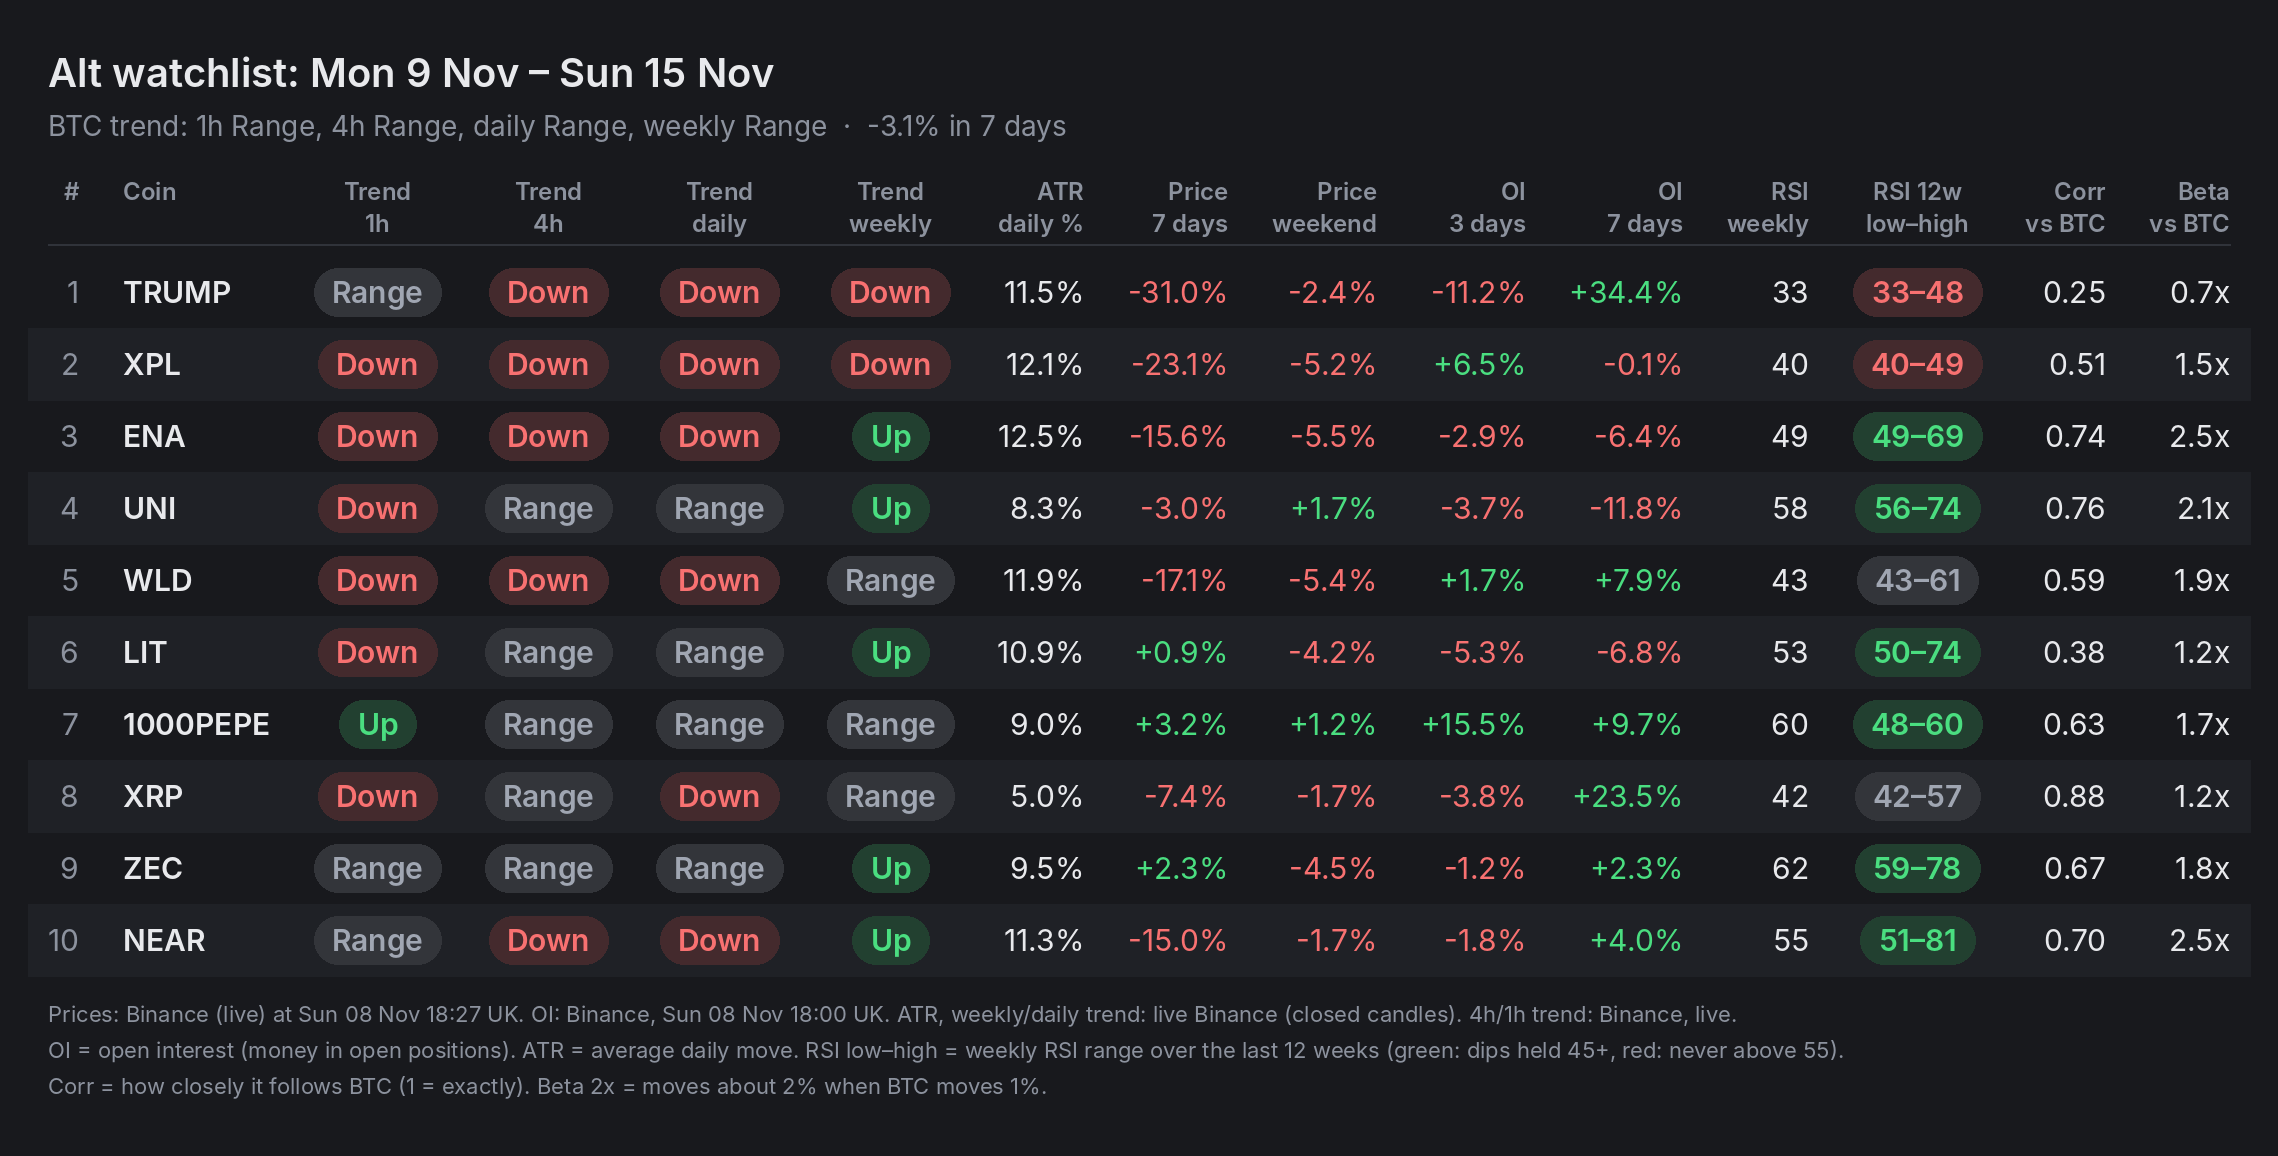
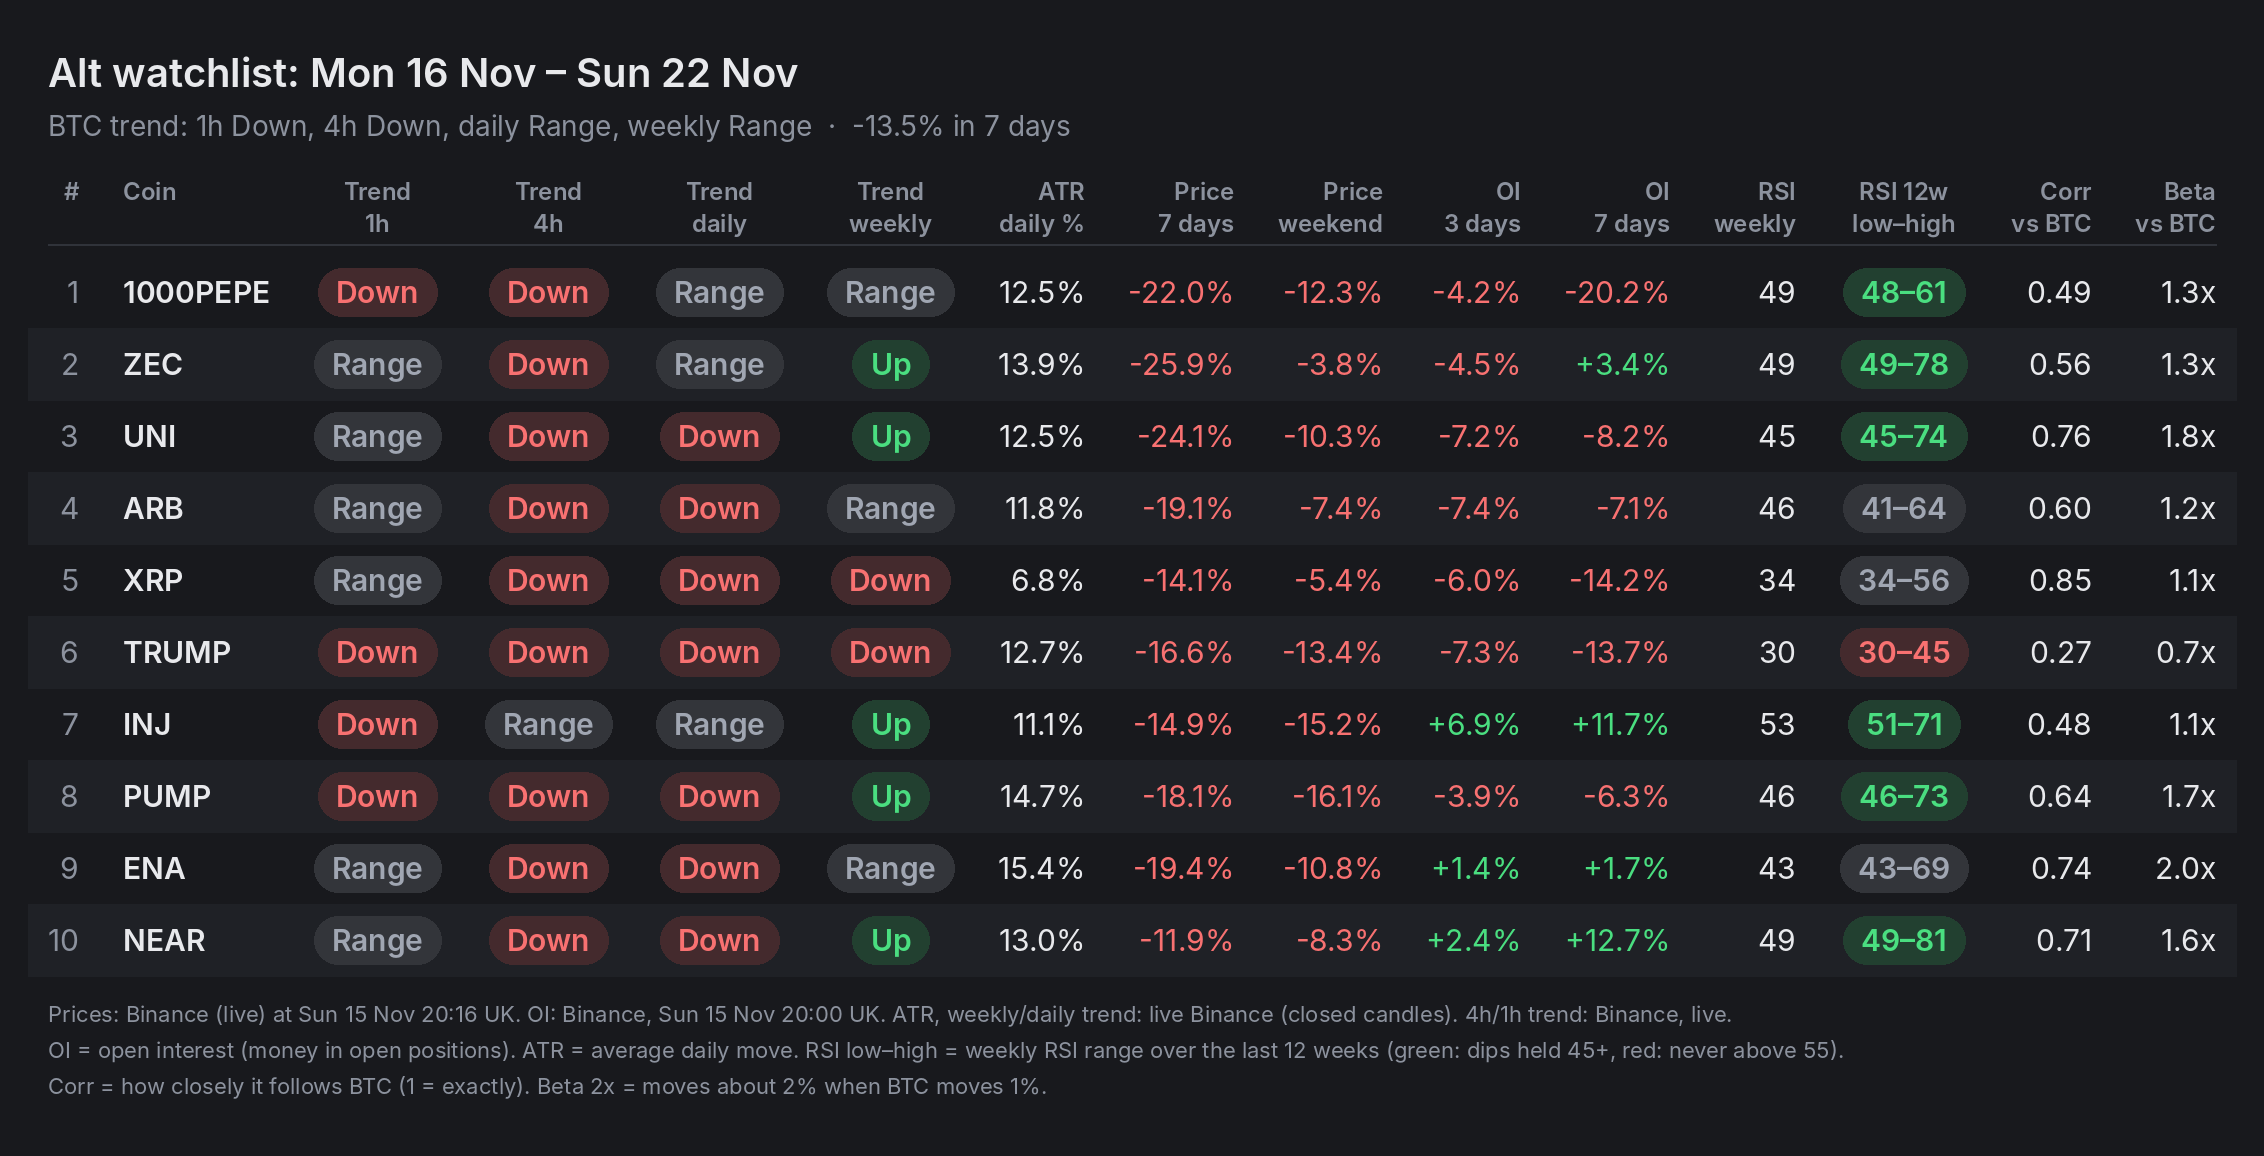
Weekly watchlist 2026-11-15

diff --git a/latest/report.md b/latest/report.md
@@ -1,40 +1,51 @@
-# Alt watchlist: Mon 9 Nov – Sun 15 Nov
+# Alt watchlist: Mon 16 Nov – Sun 22 Nov
 
-- **Generated (UK time):** Sun 08 Nov 2026 18:27
-- **Daily candles up to (UTC):** 2026-11-07
+- **Generated (UK time):** Sun 15 Nov 2026 20:16
+- **Daily candles up to (UTC):** 2026-11-14
 - **Binance perps also on Hyperliquid (after exclusions):** 169
-- **Passed all filters:** 16
+- **Passed all filters:** 27
 
-## All 16 coins that passed the filters (top 10 go on the watchlist)
+## All 27 coins that passed the filters (top 10 go on the watchlist)
 
 | Rank | Coin | Score | Trend | ATR% | Vol 7d/30d | 7d move | Weekend move | OI 3d | OI 7d | Corr BTC | Beta BTC | Binance OI | Binance 7d avg vol | HL 24h vol | HL OI | wRSI | wRSI 12w low–high | Funding /8h | Tags | Candles |
 |---|---|---|---|---|---|---|---|---|---|---|---|---|---|---|---|---|---|---|---|---|
-| **1** | TRUMP | 83 | 1h: Range · 4h: Down · D: Down · W: Down | 11.5% | 1.87 | -31.0% | -2.4% | -11.2% | +34.4% | 0.25 | 0.70 | $34.6M | $162.1M | $3.2M | $9.7M | 33 | 33–48 | -0.0139% (Binance) |  | Binance live |
-| **2** | XPL | 64 | 1h: Down · 4h: Down · D: Down · W: Down | 12.1% | 1.34 | -23.1% | -5.2% | +6.5% | -0.1% | 0.51 | 1.46 | $29.7M | $52.8M | $8.0M | $40.7M | 40 | 40–49 | +0.0096% (Binance) |  | Binance live |
-| **3** | ENA | 64 | 1h: Down · 4h: Down · D: Down · W: Up | 12.5% | 0.82 | -15.6% | -5.5% | -2.9% | -6.4% | 0.74 | 2.48 | $77.7M | $213.3M | $8.5M | $62.0M | 49 | 49–69 | +0.0100% (Binance) |  | Binance live |
-| **4** | UNI | 57 | 1h: Down · 4h: Range · D: Range · W: Up | 8.3% | 1.08 | -3.0% | +1.7% | -3.7% | -11.8% | 0.76 | 2.05 | $140.4M | $218.4M | $7.8M | $71.6M | 58 | 56–74 | +0.0074% (Binance) |  | Binance live |
-| **5** | WLD | 54 | 1h: Down · 4h: Down · D: Down · W: Range | 11.9% | 0.61 | -17.1% | -5.4% | +1.7% | +7.9% | 0.59 | 1.91 | $60.7M | $143.1M | $6.4M | $39.8M | 43 | 43–61 | -0.0088% (Binance) |  | Binance live |
-| **6** | LIT | 53 | 1h: Down · 4h: Range · D: Range · W: Up | 10.9% | 1.29 | +0.9% | -4.2% | -5.3% | -6.8% | 0.38 | 1.24 | $40.7M | $90.2M | $13.5M | $114.9M | 53 | 50–74 | +0.0100% (Binance) |  | Binance live |
-| **7** | 1000PEPE | 53 | 1h: Up · 4h: Range · D: Range · W: Range | 9.0% | 0.99 | +3.2% | +1.2% | +15.5% | +9.7% | 0.63 | 1.66 | $122.3M | $335.6M | $8.6M | $55.2M | 60 | 48–60 | +0.0100% (Binance) |  | Binance live |
-| **8** | XRP | 52 | 1h: Down · 4h: Range · D: Down · W: Range | 5.0% | 1.06 | -7.4% | -1.7% | -3.8% | +23.5% | 0.88 | 1.22 | $388.9M | $658.5M | $27.7M | $195.3M | 42 | 42–57 | +0.0100% (Binance) |  | Binance live |
-| **9** | ZEC | 51 | 1h: Range · 4h: Range · D: Range · W: Up | 9.5% | 1.17 | +2.3% | -4.5% | -1.2% | +2.3% | 0.67 | 1.80 | $542.8M | $2.0B | $192.8M | $613.1M | 62 | 59–78 | +0.0036% (Binance) |  | Binance live |
-| **10** | NEAR | 50 | 1h: Range · 4h: Down · D: Down · W: Up | 11.3% | 0.69 | -15.0% | -1.7% | -1.8% | +4.0% | 0.70 | 2.46 | $160.0M | $440.1M | $23.5M | $153.0M | 55 | 51–81 | +0.0084% (Binance) |  | Binance live |
-| 11 | PUMP | 48 | 1h: n/a · 4h: n/a · D: Down · W: Up | 12.5% | 0.69 | -11.0% | -4.7% | +3.5% | +0.8% | 0.63 | 1.96 | $60.5M | $114.6M | $26.0M | $66.4M | 51 | 51–78 | +0.0036% (Binance) |  | Binance live |
-| 12 | INJ | 46 | 1h: n/a · 4h: n/a · D: Range · W: Up | 8.1% | 0.88 | +13.2% | -2.0% | +0.2% | +23.0% | 0.59 | 1.66 | $28.9M | $85.6M | $3.4M | $6.4M | 63 | 51–71 | +0.0100% (Binance) |  | Binance live |
-| 13 | BCH | 40 | 1h: n/a · 4h: n/a · D: Range · W: Down | 6.9% | 1.01 | -13.6% | -6.8% | +2.0% | +3.4% | 0.57 | 1.01 | $69.3M | $81.0M | $3.9M | $6.5M | 43 | 38–53 | -0.0188% (Binance) |  | Binance live |
-| 14 | SUI | 33 | 1h: n/a · 4h: n/a · D: Down · W: Range | 7.1% | 0.78 | -5.6% | -2.2% | -1.2% | -5.1% | 0.83 | 1.68 | $84.3M | $158.6M | $4.5M | $27.6M | 46 | 40–60 | +0.0064% (Binance) |  | Binance live |
-| 15 | ARB | 33 | 1h: n/a · 4h: n/a · D: Down · W: Up | 8.3% | 0.67 | +2.7% | +2.0% | +23.7% | +13.6% | 0.60 | 1.57 | $43.4M | $55.3M | $3.4M | $14.5M | 54 | 41–64 | +0.0041% (Binance) |  | Binance live |
-| 16 | XMR | 19 | 1h: n/a · 4h: n/a · D: Up · W: Range | 5.3% | 0.85 | +0.8% | -1.3% | -5.0% | +2.9% | 0.41 | 0.61 | $55.5M | $58.5M | $33.9M | $150.9M | 72 | 60–73 | +0.0358% (Binance) |  | Binance live |
+| **1** | 1000PEPE | 80 | 1h: Down · 4h: Down · D: Range · W: Range | 12.5% | 1.10 | -22.0% | -12.3% | -4.2% | -20.2% | 0.49 | 1.29 | $74.8M | $438.2M | $23.2M | $22.6M | 49 | 48–61 | -0.0318% (Binance) |  | Binance live |
+| **2** | ZEC | 79 | 1h: Range · 4h: Down · D: Range · W: Up | 13.9% | 1.12 | -25.9% | -3.8% | -4.5% | +3.4% | 0.56 | 1.28 | $400.3M | $2.0B | $451.6M | $348.9M | 49 | 49–78 | +0.0066% (Binance) |  | Binance live |
+| **3** | UNI | 71 | 1h: Range · 4h: Down · D: Down · W: Up | 12.5% | 1.02 | -24.1% | -10.3% | -7.2% | -8.2% | 0.76 | 1.81 | $95.5M | $196.9M | $21.3M | $35.5M | 45 | 45–74 | +0.0048% (Binance) |  | Binance live |
+| **4** | ARB | 61 | 1h: Range · 4h: Down · D: Down · W: Range | 11.8% | 1.07 | -19.1% | -7.4% | -7.4% | -7.1% | 0.60 | 1.23 | $31.9M | $87.0M | $6.4M | $9.7M | 46 | 41–64 | -0.0034% (Binance) |  | Binance live |
+| **5** | XRP | 60 | 1h: Range · 4h: Down · D: Down · W: Down | 6.8% | 1.26 | -14.1% | -5.4% | -6.0% | -14.2% | 0.85 | 1.14 | $277.5M | $825.7M | $158.6M | $74.7M | 34 | 34–56 | -0.0007% (Binance) |  | Binance live |
+| **6** | TRUMP | 60 | 1h: Down · 4h: Down · D: Down · W: Down | 12.7% | 0.86 | -16.6% | -13.4% | -7.3% | -13.7% | 0.27 | 0.68 | $24.3M | $75.5M | $7.2M | $7.1M | 30 | 30–45 | -0.0116% (Binance) |  | Binance live |
+| **7** | INJ | 59 | 1h: Down · 4h: Range · D: Range · W: Up | 11.1% | 1.06 | -14.9% | -15.2% | +6.9% | +11.7% | 0.48 | 1.07 | $27.9M | $106.9M | $8.1M | $6.2M | 53 | 51–71 | -0.0210% (Binance) |  | Binance live |
+| **8** | PUMP | 57 | 1h: Down · 4h: Down · D: Down · W: Up | 14.7% | 0.74 | -18.1% | -16.1% | -3.9% | -6.3% | 0.64 | 1.73 | $44.7M | $103.1M | $42.2M | $41.8M | 46 | 46–73 | +0.0100% (Binance) |  | Binance live |
+| **9** | ENA | 56 | 1h: Range · 4h: Down · D: Down · W: Range | 15.4% | 0.77 | -19.4% | -10.8% | +1.4% | +1.7% | 0.74 | 1.96 | $61.9M | $188.4M | $24.2M | $35.7M | 43 | 43–69 | +0.0049% (Binance) |  | Binance live |
+| **10** | NEAR | 55 | 1h: Range · 4h: Down · D: Down · W: Up | 13.0% | 0.74 | -11.9% | -8.3% | +2.4% | +12.7% | 0.71 | 1.65 | $160.4M | $382.1M | $77.5M | $107.2M | 49 | 49–81 | +0.0100% (Binance) |  | Binance live |
+| 11 | DOGE | 55 | 1h: n/a · 4h: n/a · D: Down · W: Down | 7.1% | 1.14 | -14.9% | -9.1% | -3.4% | -7.1% | 0.87 | 1.19 | $139.5M | $342.4M | $23.6M | $32.5M | 34 | 34–52 | +0.0020% (Binance) |  | Binance live |
+| 12 | ONDO | 52 | 1h: n/a · 4h: n/a · D: Down · W: Range | 10.6% | 0.96 | -12.8% | -9.5% | -13.4% | -16.5% | 0.76 | 1.60 | $24.4M | $62.1M | $5.9M | $12.5M | 42 | 42–66 | -0.0120% (Binance) |  | Binance live |
+| 13 | LIT | 48 | 1h: n/a · 4h: n/a · D: Range · W: Up | 12.8% | 0.83 | -6.7% | -11.9% | -13.7% | -8.3% | 0.36 | 1.02 | $33.6M | $59.4M | $50.6M | $88.0M | 48 | 48–74 | -0.0053% (Binance) |  | Binance live |
+| 14 | ASTER | 48 | 1h: n/a · 4h: n/a · D: Down · W: Range | 7.6% | 1.42 | -13.3% | -14.6% | -4.8% | -2.3% | 0.61 | 1.25 | $70.6M | $58.2M | $10.5M | $13.5M | 33 | 33–57 | +0.0020% (Binance) |  | Binance live |
+| 15 | TAO | 47 | 1h: n/a · 4h: n/a · D: Down · W: Range | 9.3% | 1.00 | -12.3% | -11.4% | -9.7% | -7.9% | 0.77 | 1.35 | $41.8M | $93.6M | $11.3M | $18.1M | 40 | 40–60 | +0.0089% (Binance) |  | Binance live |
+| 16 | AVAX | 45 | 1h: n/a · 4h: n/a · D: Down · W: Range | 8.9% | 1.30 | -9.4% | -12.7% | -10.6% | -2.1% | 0.77 | 1.38 | $58.4M | $151.0M | $26.6M | $17.1M | 41 | 41–62 | -0.0107% (Binance) |  | Binance live |
+| 17 | AAVE | 45 | 1h: n/a · 4h: n/a · D: Down · W: Range | 9.5% | 1.06 | -14.4% | -3.4% | -8.1% | -2.0% | 0.68 | 1.26 | $41.8M | $101.2M | $20.6M | $41.5M | 43 | 43–66 | -0.0014% (Binance) |  | Binance live |
+| 18 | WLD | 43 | 1h: n/a · 4h: n/a · D: Down · W: Range | 13.7% | 0.53 | -15.4% | -10.5% | +1.5% | +0.9% | 0.58 | 1.46 | $51.0M | $106.0M | $12.1M | $27.1M | 38 | 38–61 | -0.0213% (Binance) |  | Binance live |
+| 19 | GRAM | 41 | 1h: n/a · 4h: n/a · D: Down · W: n/a | 8.0% | 2.32 | +2.8% | -4.1% | -7.7% | +5.0% | 0.45 | 0.72 | $15.6M | $45.0M | $6.3M | $12.9M | 31 | n/a | -0.0094% (Binance) | New listing | Binance live |
+| 20 | LTC | 41 | 1h: n/a · 4h: n/a · D: Down · W: Range | 6.7% | 1.10 | -9.9% | -8.6% | -7.3% | -10.3% | 0.82 | 1.21 | $49.8M | $68.4M | $5.8M | $15.7M | 40 | 40–66 | -0.0066% (Binance) |  | Binance live |
+| 21 | ADA | 39 | 1h: n/a · 4h: n/a · D: Down · W: Down | 8.4% | 1.08 | -12.3% | -8.8% | +1.0% | +1.3% | 0.85 | 1.33 | $52.3M | $138.3M | $8.9M | $20.2M | 37 | 37–54 | -0.0109% (Binance) |  | Binance live |
+| 22 | SUI | 38 | 1h: n/a · 4h: n/a · D: Down · W: Range | 9.1% | 0.90 | -11.9% | -9.2% | -1.7% | -3.8% | 0.82 | 1.42 | $69.3M | $159.8M | $17.9M | $15.6M | 41 | 40–60 | -0.0052% (Binance) |  | Binance live |
+| 23 | ZRO | 37 | 1h: n/a · 4h: n/a · D: Down · W: Range | 12.5% | 0.76 | -12.0% | -13.5% | +7.4% | -4.3% | 0.43 | 1.18 | $23.8M | $36.8M | $18.4M | $35.0M | 50 | 46–68 | +0.0100% (Binance) |  | Binance live |
+| 24 | LINK | 37 | 1h: n/a · 4h: n/a · D: Down · W: Range | 7.9% | 1.00 | -11.7% | -6.7% | -7.7% | -6.0% | 0.74 | 1.25 | $68.6M | $120.2M | $12.4M | $32.8M | 42 | 42–66 | -0.0004% (Binance) |  | Binance live |
+| 25 | BNB | 36 | 1h: n/a · 4h: n/a · D: Down · W: Range | 4.6% | 0.99 | -13.9% | -6.4% | +1.8% | +4.7% | 0.90 | 1.05 | $332.4M | $369.1M | $17.9M | $31.6M | 39 | 39–63 | +0.0000% (Binance) |  | Binance live |
+| 26 | XMR | 32 | 1h: n/a · 4h: n/a · D: Down · W: Range | 8.0% | 0.86 | -16.6% | -5.4% | -6.6% | -0.5% | 0.65 | 1.04 | $45.6M | $65.9M | $56.9M | $90.2M | 49 | 49–73 | +0.0100% (Binance) |  | Binance live |
+| 27 | DOT | 29 | 1h: n/a · 4h: n/a · D: Down · W: Down | 9.3% | 0.82 | -15.0% | -10.5% | -4.3% | +1.1% | 0.60 | 1.03 | $23.0M | $39.0M | $4.7M | $5.8M | 35 | 34–54 | -0.0076% (Binance) |  | Binance live |
 
 ## Coins knocked out, by filter
 
 A coin can fail more than one filter.
 
-- Hyperliquid volume: 150
-- Hyperliquid OI: 105
+- Hyperliquid volume: 130
+- Hyperliquid OI: 111
 - No recent candles (delisted/settling): 0
-- Binance 7d volume: 1
-- Binance OI: 1
-- ATR%: 1
+- Binance 7d volume: 10
+- Binance OI: 6
+- ATR%: 0
 
 Tags are information only; they never filter. Not trade advice.
